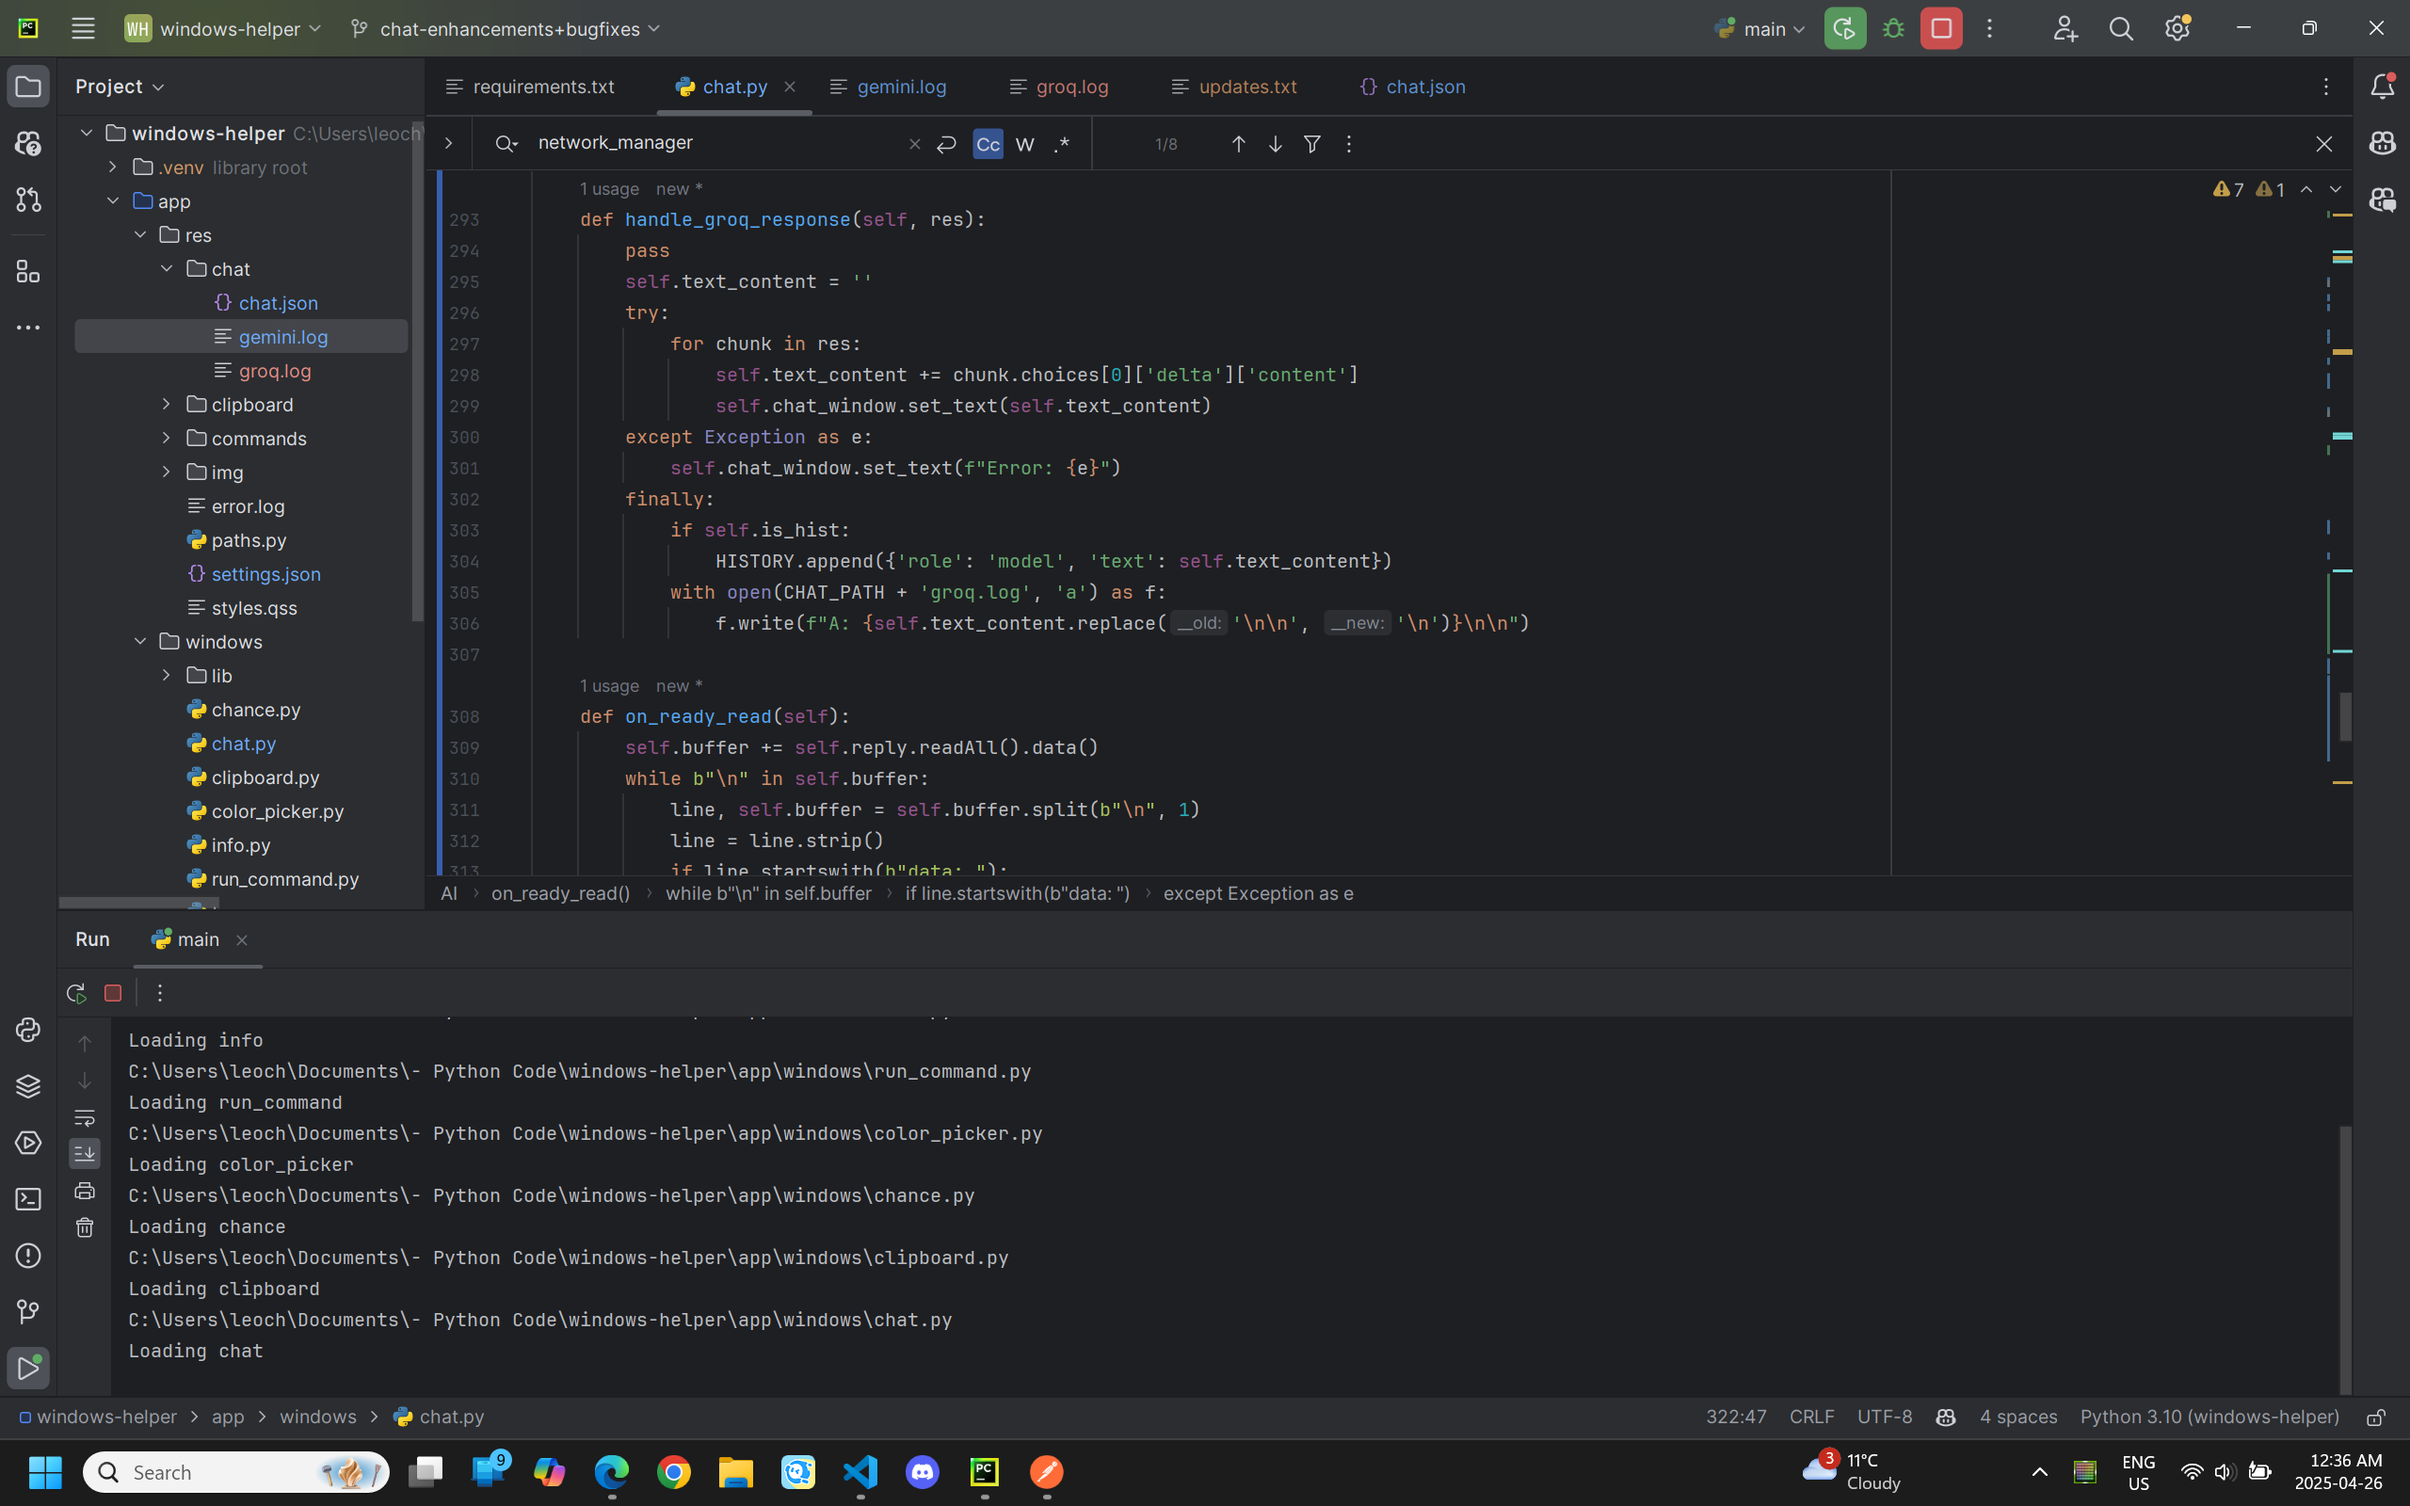
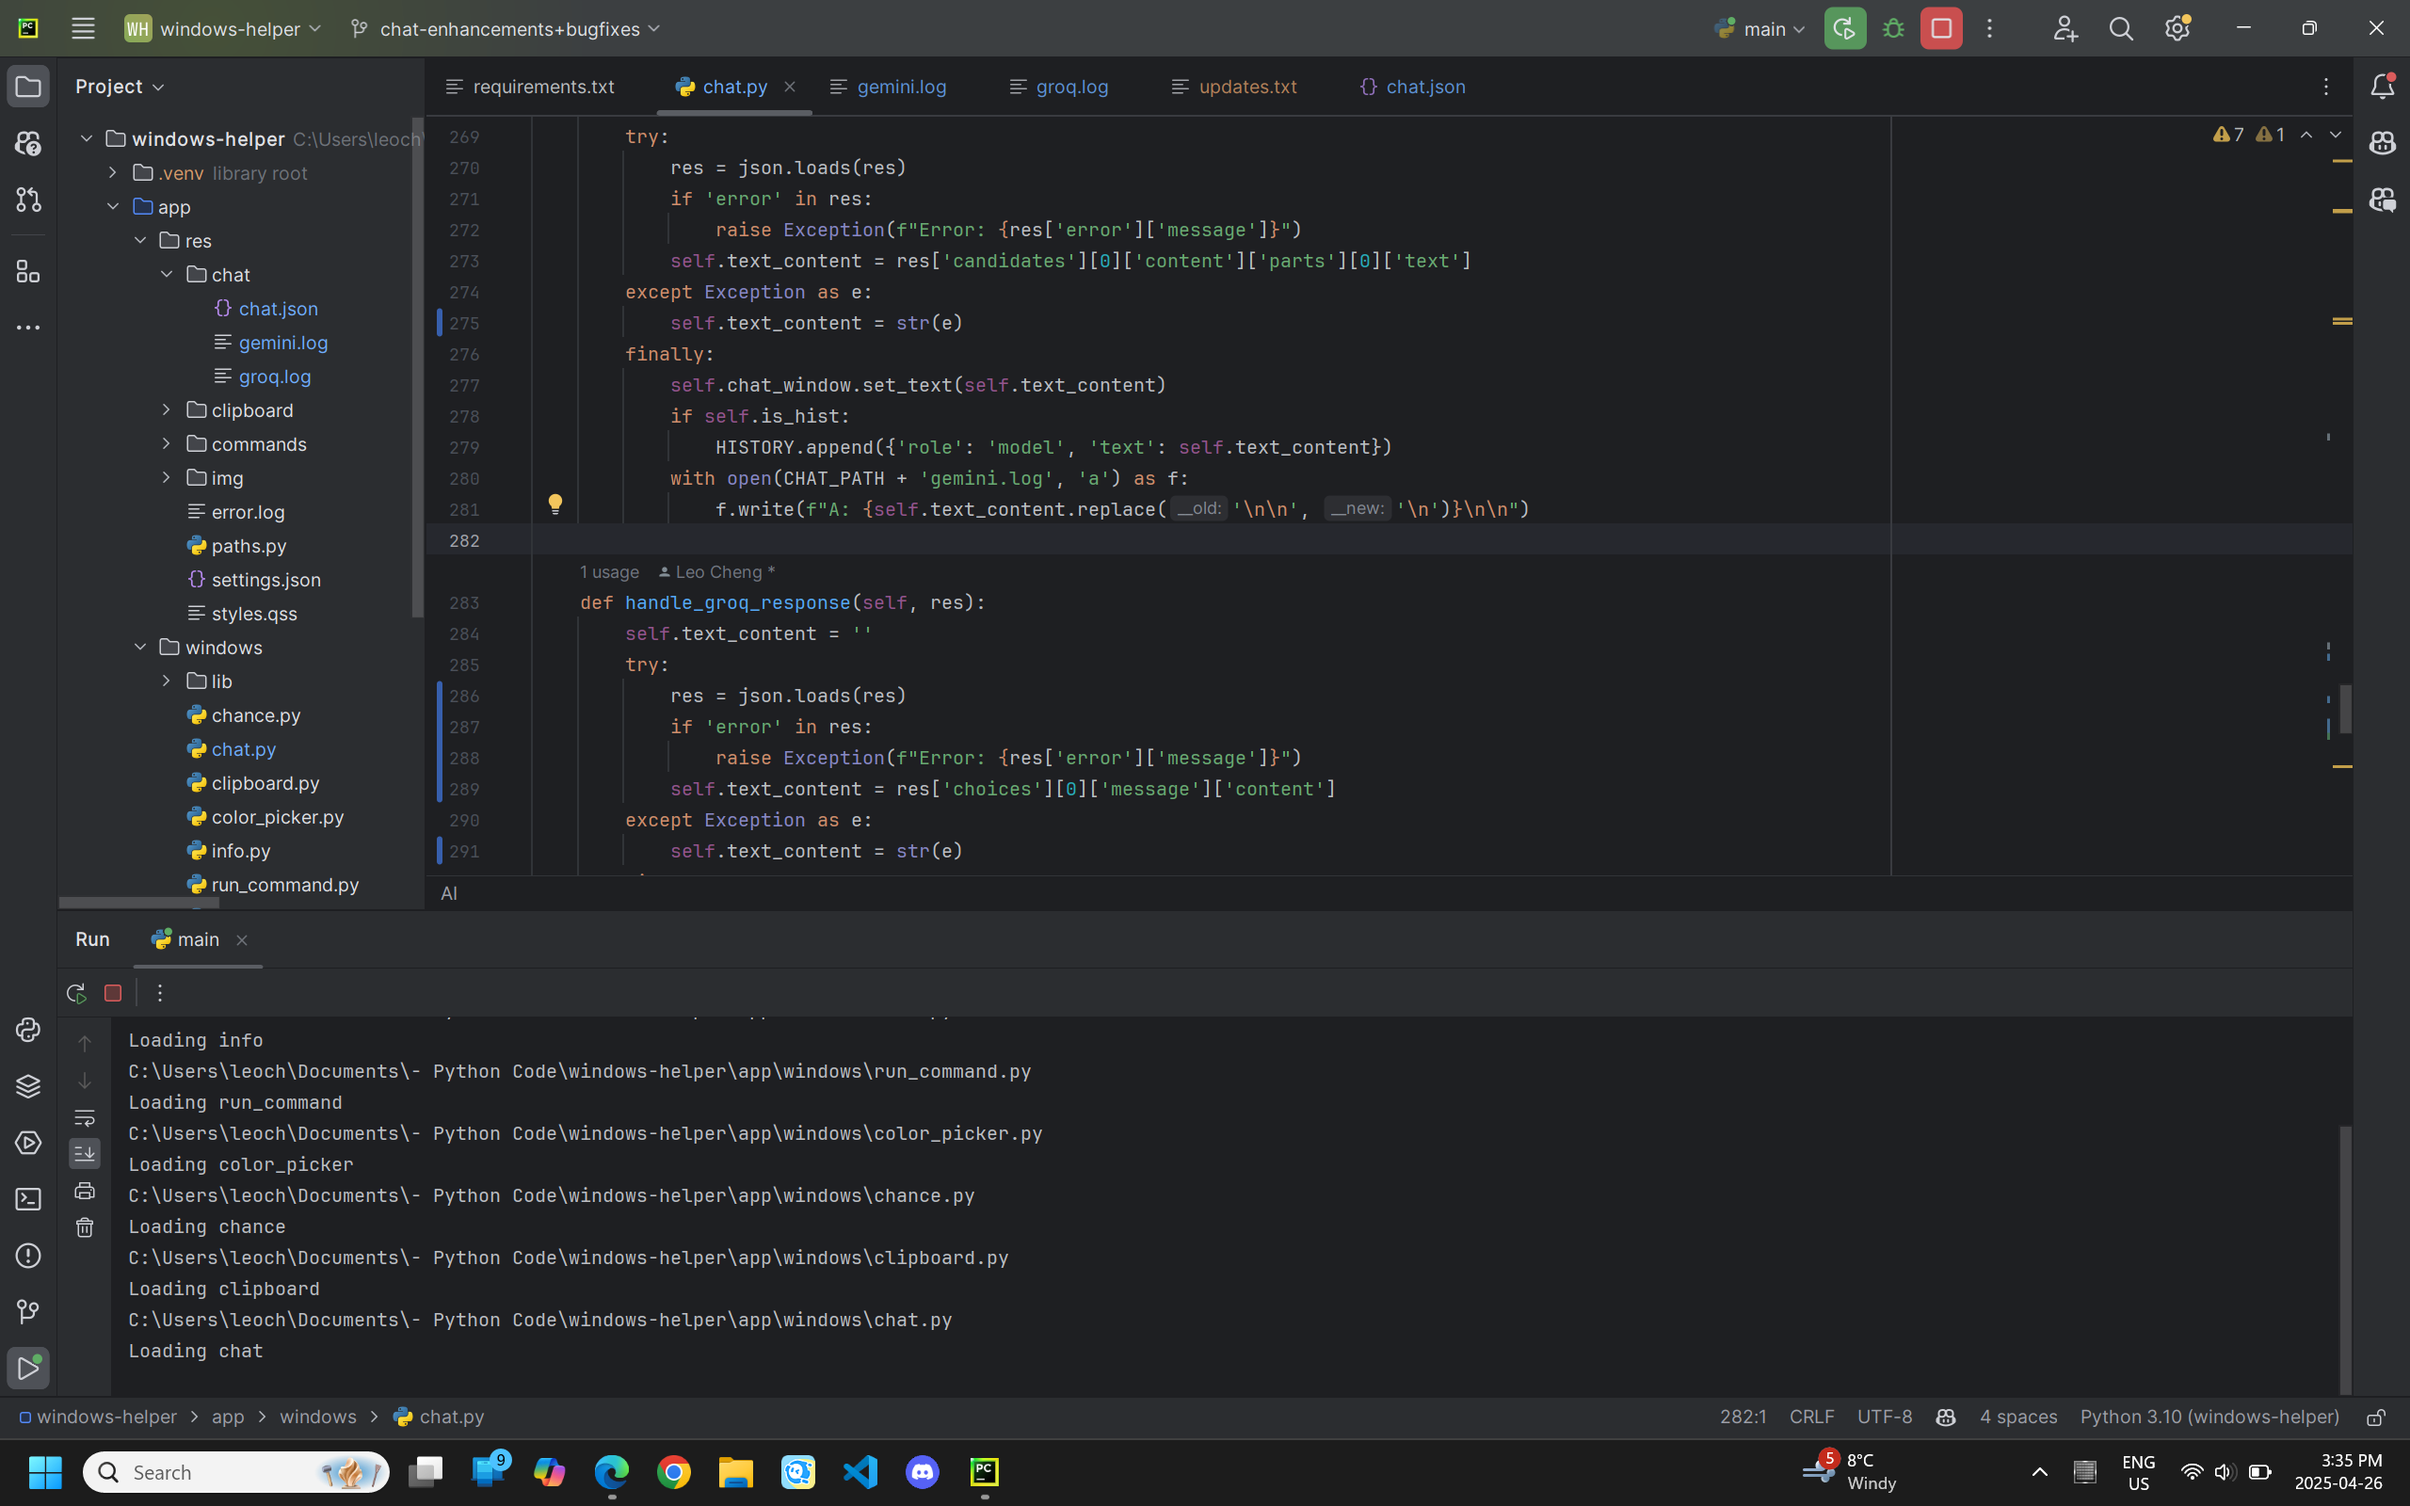
fix groq

diff --git a/app/windows/chat.py b/app/windows/chat.py
@@ -137,8 +137,6 @@ class AI:
         self.is_img = True
         self.is_hist = True
         self.text_content = ''
-        self.buffer = b""
-        self.reply = None
 
         with open(CHAT_PATH + 'chat.json', 'r') as f:
             self.config = json.load(f)
@@ -247,14 +245,13 @@ class AI:
         with open(CHAT_PATH + 'groq.log', 'a') as f:
             f.write(f"{datetime.datetime.now()}\nQ: {prompt}\n")
 
-        print('sending groq')
         request = QNetworkRequest(QUrl(url))
         for header, value in headers.items():
             request.setRawHeader(header.encode(), value.encode())
 
         json_data = json.dumps(data).encode('utf-8')
         self.current_type = "groq"
-        self.reply = self.network_manager.post(request, QByteArray(json_data))
+        self.network_manager.post(request, QByteArray(json_data))
 
     def handle_response(self, reply: QNetworkReply):
         res = reply.readAll()
@@ -275,7 +272,7 @@ class AI:
                 raise Exception(f"Error: {res['error']['message']}")
             self.text_content = res['candidates'][0]['content']['parts'][0]['text']
         except Exception as e:
-            self.text_content = e
+            self.text_content = str(e)
         finally:
             self.chat_window.set_text(self.text_content)
             if self.is_hist:
@@ -286,12 +283,14 @@ class AI:
     def handle_groq_response(self, res):
         self.text_content = ''
         try:
-            for chunk in res:
-                self.text_content += chunk.choices[0]['delta']['content']
-                self.chat_window.set_text(self.text_content)
+            res = json.loads(res)
+            if 'error' in res:
+                raise Exception(f"Error: {res['error']['message']}")
+            self.text_content = res['choices'][0]['message']['content']
         except Exception as e:
-            self.chat_window.set_text(f"Error: {e}")
+            self.text_content = str(e)
         finally:
+            self.chat_window.set_text(self.text_content)
             if self.is_hist:
                 HISTORY.append({'role': 'model', 'text': self.text_content})
             with open(CHAT_PATH + 'groq.log', 'a') as f:
